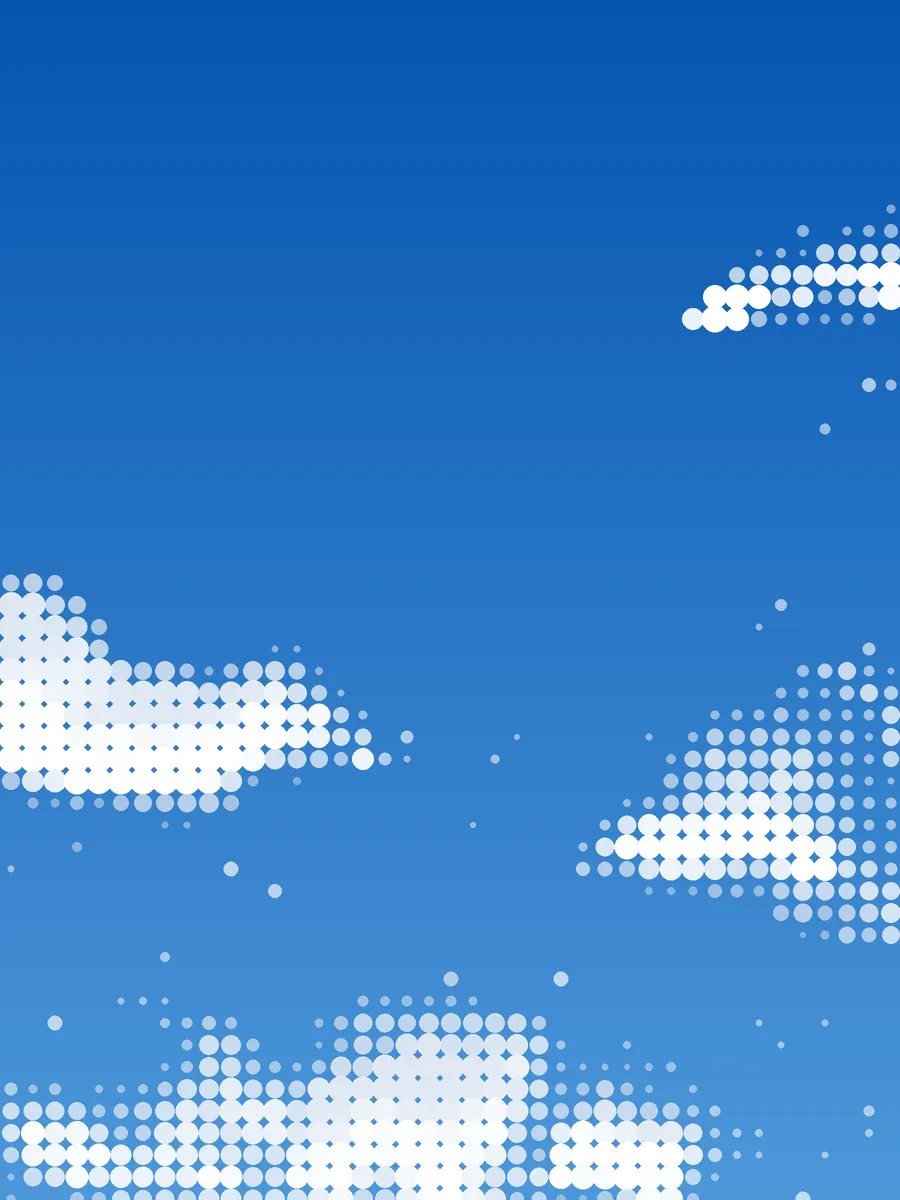
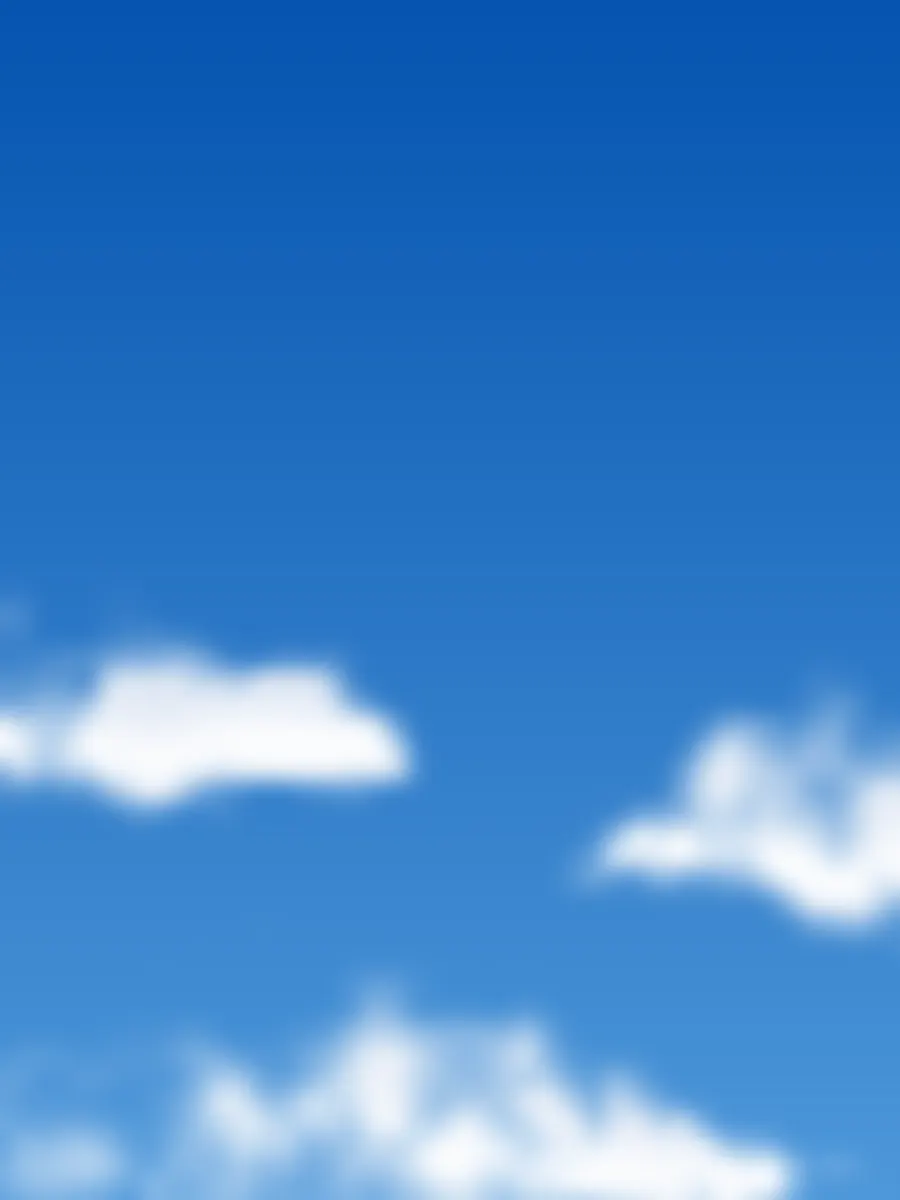
Swap the contact page's dotted clouds for soft clouds
The sky generator now draws the same cloud shapes as soft white forms
instead of halftone dots, which also cuts the images from 156 KB and
48 KB to 20 KB and 8 KB. On phones the cloud that sat behind the heading
is gone, so the white text stays readable.

Claude-Session: https://claude.ai/code/session_01VUaA9sMxEe6zL9bBpcwsNb

diff --git a/app/portals/jobs/contact/contact.module.css b/app/portals/jobs/contact/contact.module.css
@@ -17,8 +17,8 @@
 .page a { text-underline-offset: 4px; }
 .page :is(a, button, input, textarea, select, summary):focus-visible { outline: 3px solid var(--contact-brand); outline-offset: 4px; }
 
-/* -------------------------------------------------------- halftone sky -- */
-/* Generated halftone-dot clouds (public/images/contact). The mask fades the
+/* ------------------------------------------------------------------ sky -- */
+/* Generated soft clouds (scripts/make-contact-sky.py). The mask fades the
    sky into the page colour before the form card, so the card reads on ice blue. */
 .sky {
     position: absolute; z-index: -1; top: 0; left: 0; right: 0; height: 860px;

diff --git a/scripts/make-contact-sky.py b/scripts/make-contact-sky.py
@@ -1,14 +1,14 @@
-"""Render the halftone-dot cloud sky behind the contact page header.
+"""Render the soft cloud sky behind the contact page header.
 
 Usage: python3 scripts/make-contact-sky.py public/images/contact
 
 Clouds are built from overlapping soft puffs (domed tops, flatter bases), broken up with
-fractal noise, then drawn as a grid of dots whose size follows the cloud density. Dots on
-the underside of a cloud are shaded a little greyer, like the reference.
+fractal noise, then drawn as soft white shapes over the sky gradient. The underside of each
+cloud is shaded a little greyer.
 """
 import sys
 import numpy as np
-from PIL import Image, ImageDraw
+from PIL import Image, ImageFilter
 
 
 def smooth_noise(w, h, cells_x, cells_y, rng):
@@ -84,24 +84,22 @@ def render(out, W, H, pitch, seed, clouds, clear):
     below = np.roll(cloud, -3, axis=0)
     inner = np.clip(cloud - below, 0, 1) * 0 + np.clip(below - np.roll(cloud, 4, axis=0), 0, 1)
 
-    S = 2
-    top, bot = np.array([5, 84, 176]), np.array([78, 152, 218])
-    grad = np.linspace(0, 1, H * S)[:, None] * (bot - top) + top
-    img = Image.fromarray(np.repeat(grad[:, None, :], W * S, axis=1).astype(np.uint8), 'RGB')
-    d = ImageDraw.Draw(img, 'RGBA')
-    rmax = pitch * 0.6
-    for j in range(gh):
-        for i in range(gw):
-            val = dens[j, i]
-            if val < 0.05:
-                continue
-            r = rmax * np.sqrt(val) * S
-            x, y = (i - 0.5) * pitch * S, (j - 0.5) * pitch * S
-            g = min(1.0, shade[j, i] * 0.8 + inner[j, i] * 0.6)
-            col = (int(255 - 52 * g), int(255 - 38 * g), int(255 - 18 * g))
-            alpha = int(255 * (0.45 + 0.55 * min(1.0, val * 1.3)))
-            d.ellipse([x - r, y - r, x + r, y + r], fill=col + (alpha,))
-    img = img.resize((W, H), Image.LANCZOS)
+    # Soft clouds: upsample the density and shading fields to full size, blur them,
+    # and lay white (greyer underneath) over the sky gradient.
+    def up(a, blur):
+        im = Image.fromarray((np.clip(a, 0, 1) * 255).astype(np.uint8), 'L')
+        im = im.resize((gw * pitch, gh * pitch), Image.BICUBIC).crop((pitch // 2, pitch // 2, pitch // 2 + W, pitch // 2 + H))
+        return np.asarray(im.filter(ImageFilter.GaussianBlur(blur)), dtype=np.float32) / 255
+
+    nav = smoothstep(0.07, 0.15, v)
+    alpha = up(np.clip(cloud * 1.15 + halo * 0.35, 0, 1) * nav, pitch * 0.35)
+    grey = up(np.clip(shade * 0.8 + inner * 0.6, 0, 1), pitch * 0.8)
+    top, bot = np.array([5, 84, 176], np.float32), np.array([78, 152, 218], np.float32)
+    sky = np.linspace(0, 1, H, dtype=np.float32)[:, None, None] * (bot - top) + top
+    sky = np.repeat(sky, W, axis=1)
+    white = np.stack([255 - 52 * grey, 255 - 38 * grey, 255 - 18 * grey], axis=-1)
+    a = alpha[..., None]
+    img = Image.fromarray((sky * (1 - a) + white * a).astype(np.uint8), 'RGB')
     img.save(out, 'WEBP', quality=78, method=6)
 
 
@@ -114,6 +112,6 @@ if __name__ == '__main__':
         (0.02, 0.92, 0.14, 0.14),
     ], (0.28, 0.0, 0.72, 0.5))
     render(f'{outdir}/contact-sky-mobile.webp', 900, 1200, 22, 9, [
-        (1.0, 0.27, 0.36, 0.08), (0.10, 0.64, 0.50, 0.14), (0.88, 0.72, 0.45, 0.13),
+        (0.10, 0.64, 0.50, 0.14), (0.88, 0.72, 0.45, 0.13),
         (0.45, 0.97, 0.80, 0.14),
     ], (0.0, 0.0, 0.85, 0.56))
